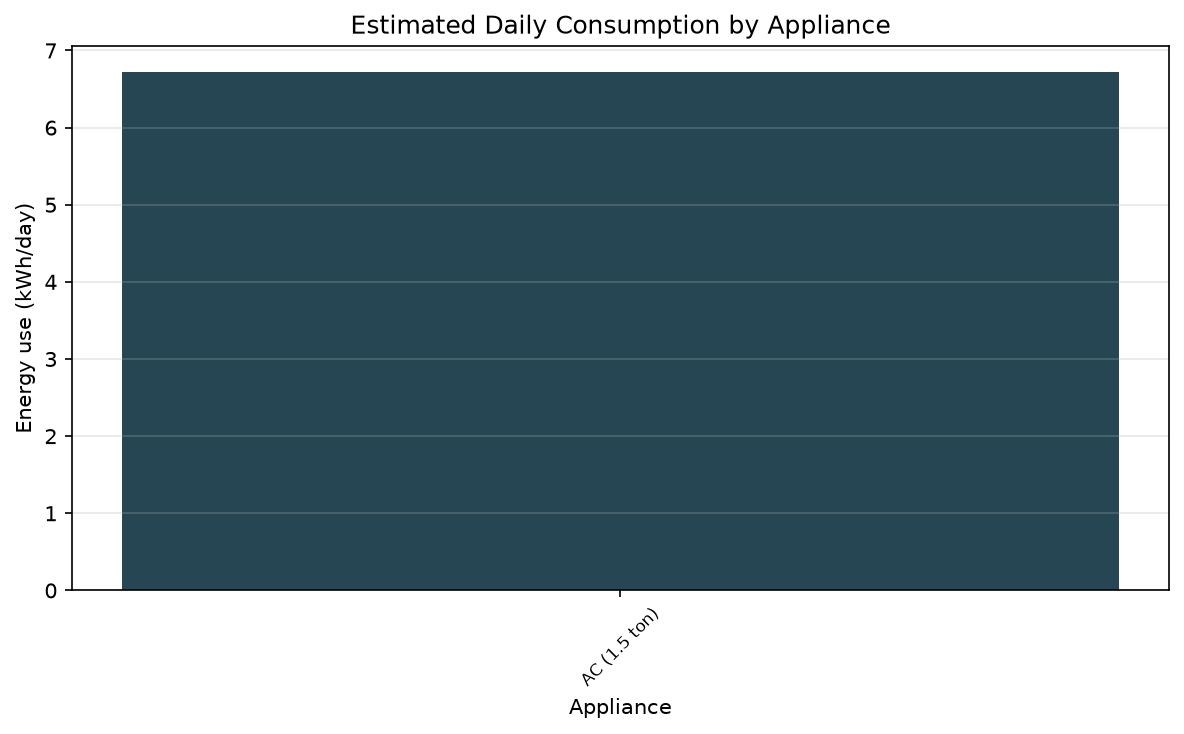
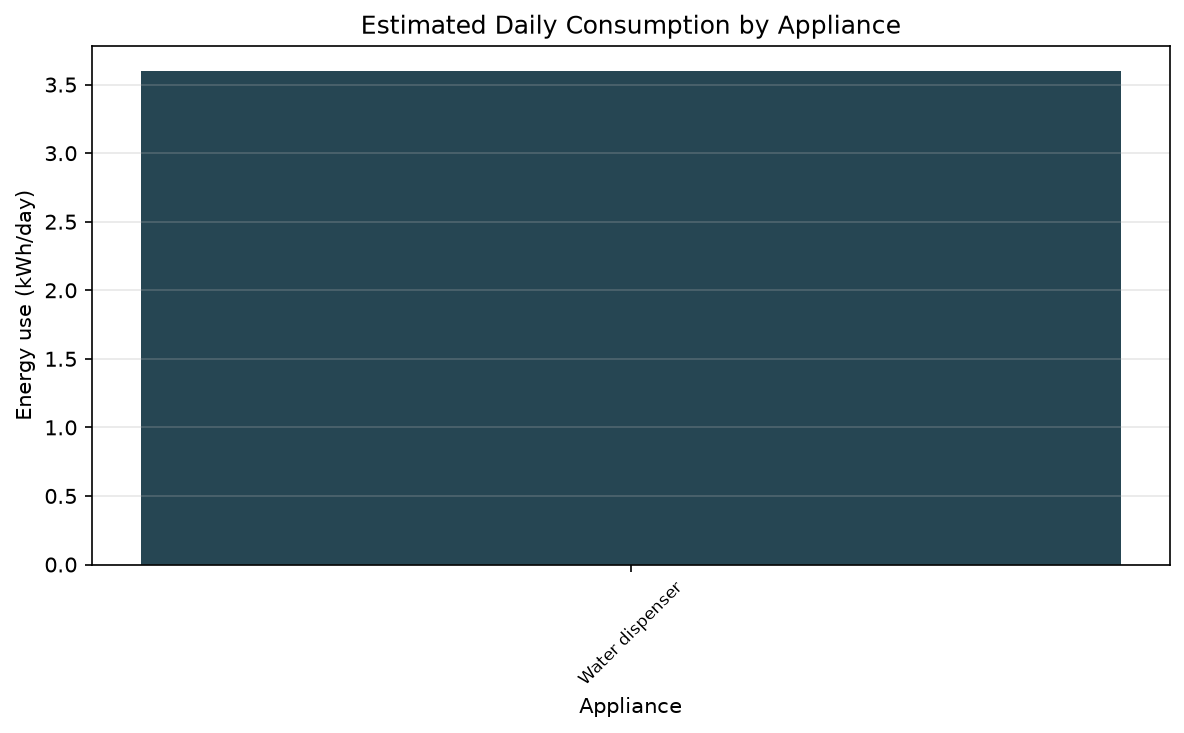
Add training scores and vectorise monthly totals

diff --git a/src/solar_estimator.py b/src/solar_estimator.py
@@ -93,7 +93,7 @@ class SolarEstimator:
             raise SolarDataError("System capacity must be numeric.") from error
         if not math.isfinite(capacity_kwp) or capacity_kwp <= 0:
             raise SolarDataError("System capacity must be greater than zero.")
-        dates = np.asarray([str(value)[:10] for value in self.time[::24]])
+        dates = self.time[::24].astype("U10")
         # A scalar capacity broadcasts over each day's 24 hourly yields.
         daily_hourly = self.hourly_kwh_per_kw() * capacity_kwp
         daily = np.where(
@@ -103,11 +103,9 @@ class SolarEstimator:
 
     def monthly_output_kwh(self, capacity_kwp: float) -> dict[str, float]:
         dates, daily = self.daily_output_kwh(capacity_kwp)
-        output: dict[str, float] = {}
-        for date, kwh in zip(dates, daily):
-            month = date[:7]
-            output[month] = output.get(month, 0.0) + float(kwh)
-        return output
+        months, inverse = np.unique(dates.astype("U7"), return_inverse=True)
+        totals = np.bincount(inverse, weights=daily)
+        return dict(zip(months.tolist(), totals.tolist()))
 
     def monthly_generation_per_kwp(self) -> dict[str, float]:
         """Monthly kWh output produced by a 1 kWp system."""
@@ -135,7 +133,7 @@ class SolarEstimator:
             month: kwh / month_days[month]
             for month, kwh in generation.items()
         }
-        worst_month = min(avg_daily_yield, key=avg_daily_yield.get)
+        worst_month = min(avg_daily_yield, key=lambda month: avg_daily_yield[month])
         if avg_daily_yield[worst_month] <= 0:
             raise SolarDataError(
                 "Solar radiation is zero; a system size cannot be estimated."

diff --git a/src/solar_predictor.py b/src/solar_predictor.py
@@ -110,10 +110,13 @@ class SolarPredictor:
 
         baseline_prediction = np.full(len(test), y_train.mean(), dtype=float)
         self.results["Naive mean baseline"] = self._metrics(y_test, baseline_prediction)
+        self.train_results = {"Naive mean baseline": self._metrics(y_train, np.full(len(train), y_train.mean(), dtype=float))}    
         for name, model in candidates.items():
-            model.fit(X_train, y_train)
+            model.fit(X_train, y_train)                        # 1. train first
             predictions = np.maximum(0.0, model.predict(X_test))
             self.results[name] = self._metrics(y_test, predictions)
+            self.train_results[name] = self._metrics(          # 2. only then score the training data
+                y_train, np.maximum(0.0, model.predict(X_train)))
             self.models[name] = model
 
         self.test_dates = test.index

diff --git a/src/main.py b/src/main.py
@@ -299,8 +299,10 @@ def recommend_solar_system(household, report_lines):
         )
         print("\nRadiation-model comparison (complete held-out months):")
         for name, metrics in results.items():
+            train_metrics = predictor.train_results[name]
             print(f"  {name}: MAE={metrics['MAE']:.3f} kWh/m2, "
-                  f"RMSE={metrics['RMSE']:.3f} kWh/m2, R2={metrics['R2']:.3f}")
+                  f"RMSE={metrics['RMSE']:.3f} kWh/m2, R2={metrics['R2']:.3f} "
+                  f"(training RMSE={train_metrics['RMSE']:.3f}, R2={train_metrics['R2']:.3f})")
         if model_improved:
             print("At least one trained model has lower test RMSE than the naive baseline.")
         else:
